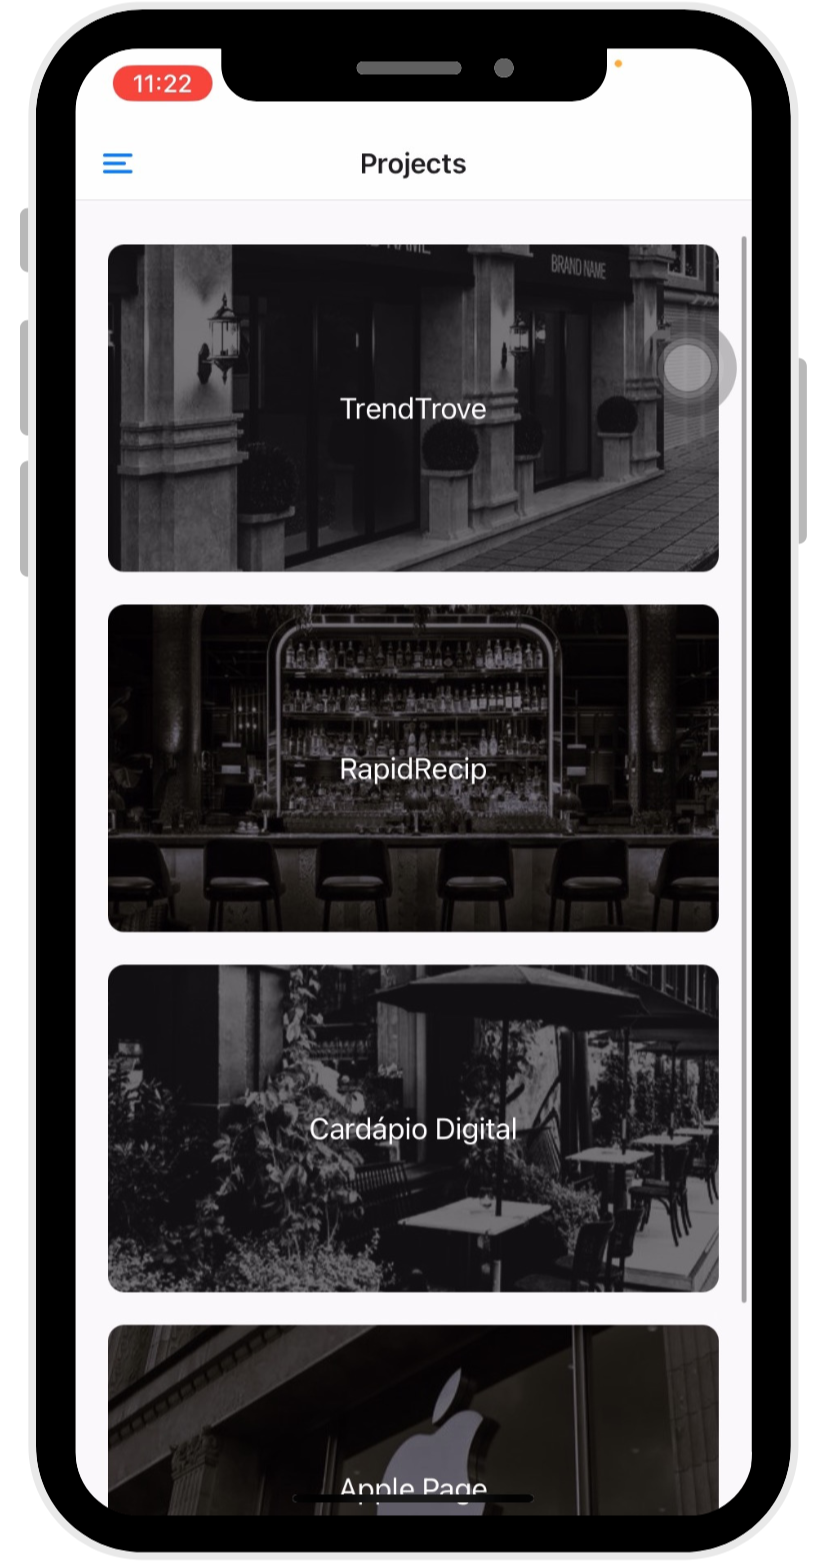
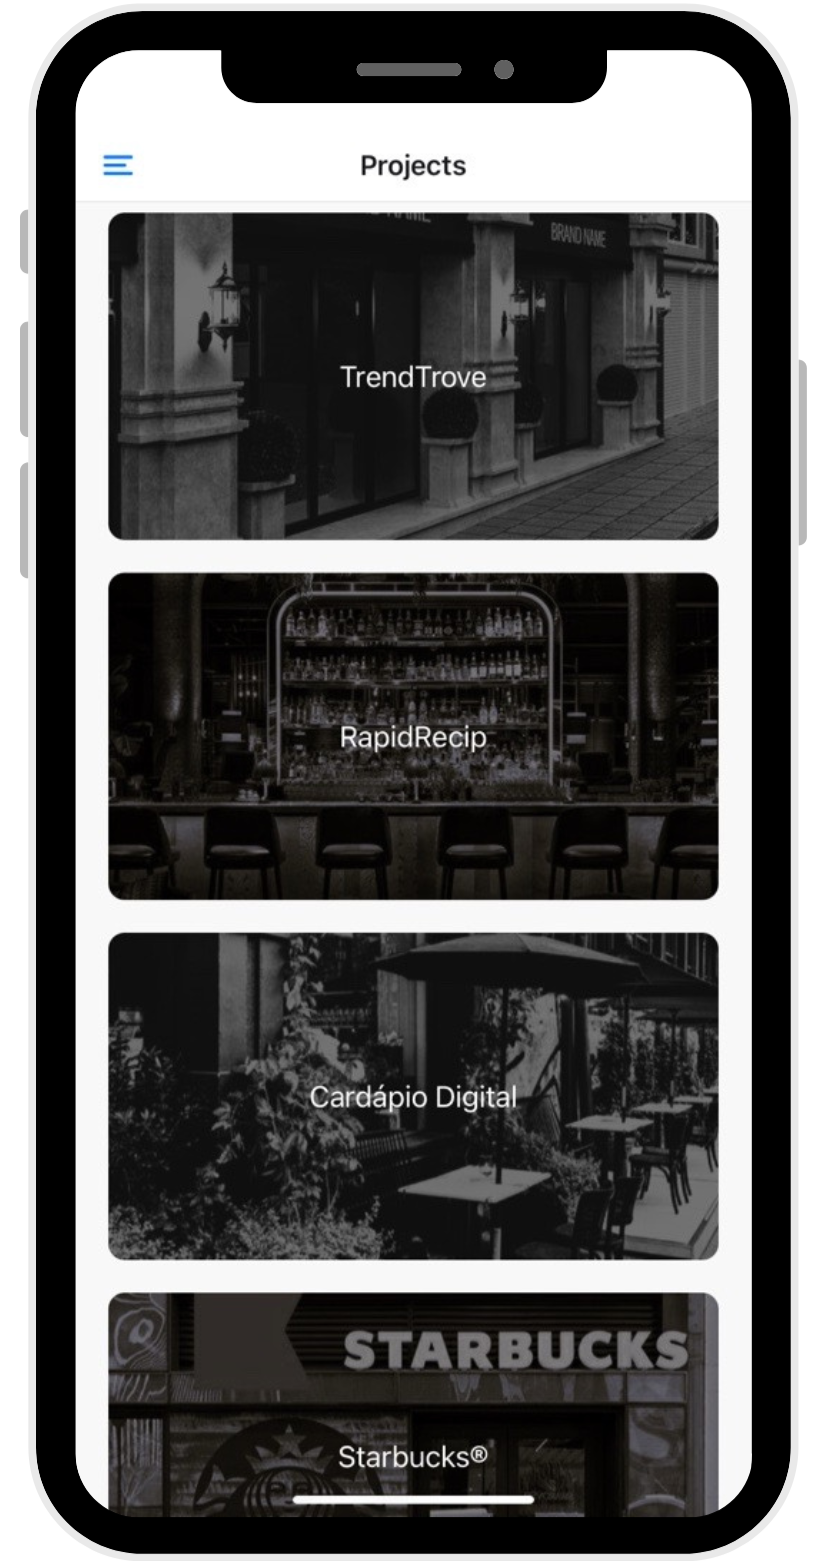
Adicionando novas fotos para por no layout do Readmi dentro do repositório do github

diff --git a/src/screens/Projects.js b/src/screens/Projects.js
@@ -1,10 +1,5 @@
 import React from 'react';
-import { createStackNavigator } from '@react-navigation/stack';
-import { NavigationContainer } from '@react-navigation/native';
 import { View, Text, StyleSheet, TouchableOpacity, ImageBackground, ScrollView } from 'react-native';
-import ProjectDetailsPage from './ProjectDetailsPage';
-
-const Stack = createStackNavigator();
 
 const projects = [
   { id: 1, name: 'TrendTrove', url: 'https://produtos-trendtrove.netlify.app/', image: require('../../assets/project(1).jpg') },
@@ -30,19 +25,6 @@ const Projects = ({ navigation }) => {
         </TouchableOpacity>
       ))}
     </ScrollView>
-  );
-};
-
-const ProjectsStack = () => {
-  return (
-    <Stack.Navigator>
-      <Stack.Screen name="Projects" component={Projects} options={{ headerShown: false }} />
-      <Stack.Screen 
-        name="ProjectDetails" 
-        component={ProjectDetailsPage} 
-        options={({ route }) => ({ headerTitle: route.params.project.name })} 
-      />
-    </Stack.Navigator>
   );
 };
 
@@ -77,12 +59,4 @@ const styles = StyleSheet.create({
   },
 });
 
-export default () => (
-  <NavigationContainer independent={true}>
-    <ProjectsStack />
-  </NavigationContainer>
-);
-
-
-
-
+export default Projects;

diff --git a/src/screens/ProjectDetailsPage.js b/src/screens/ProjectDetailsPage.js
@@ -5,7 +5,6 @@ import Icon from 'react-native-vector-icons/MaterialCommunityIcons';
 const ProjectDetailsPage = ({ route }) => {
   const { project } = route.params;
 
-  // URLs do GitHub para cada projeto
   const githubUrls = {
     1: 'https://github.com/mikaiassantos/TrendTrove-Store',
     2: 'https://github.com/mikaiassantos/RapidRecip---App',
@@ -13,7 +12,6 @@ const ProjectDetailsPage = ({ route }) => {
     4: 'https://github.com/mikaiassantos/Starbucks-Page/tree/main',
   };
 
-  // Função para renderizar a descrição do projeto
   const renderDescription = () => {
     let description = '';
     switch (project.id) {
@@ -105,7 +103,7 @@ const styles = StyleSheet.create({
   githubButton: {
     width: 51,
     height: 51,
-    backgroundColor: '#11212d', // Cor vinho
+    backgroundColor: '#11212d',
     borderRadius: 10,
     alignItems: 'center',
     justifyContent: 'center',
@@ -113,4 +111,3 @@ const styles = StyleSheet.create({
 });
 
 export default ProjectDetailsPage;
-

diff --git a/src/routes/ProjectsStack.js b/src/routes/ProjectsStack.js
@@ -7,8 +7,16 @@ const Stack = createStackNavigator();
 const ProjectsStack = () => {
   return (
     <Stack.Navigator>
-      <Stack.Screen name="Projects" component={Projects} />
-      <Stack.Screen name="ProjectDetails" component={ProjectDetailsPage} />
+      <Stack.Screen
+        name="Projects"
+        component={Projects}
+        options={{ headerShown: false }}
+      />
+      <Stack.Screen
+        name="ProjectDetails"
+        component={ProjectDetailsPage}
+        options={({ route }) => ({ headerTitle: route.params.project.name })}
+      />
     </Stack.Navigator>
   );
 };
